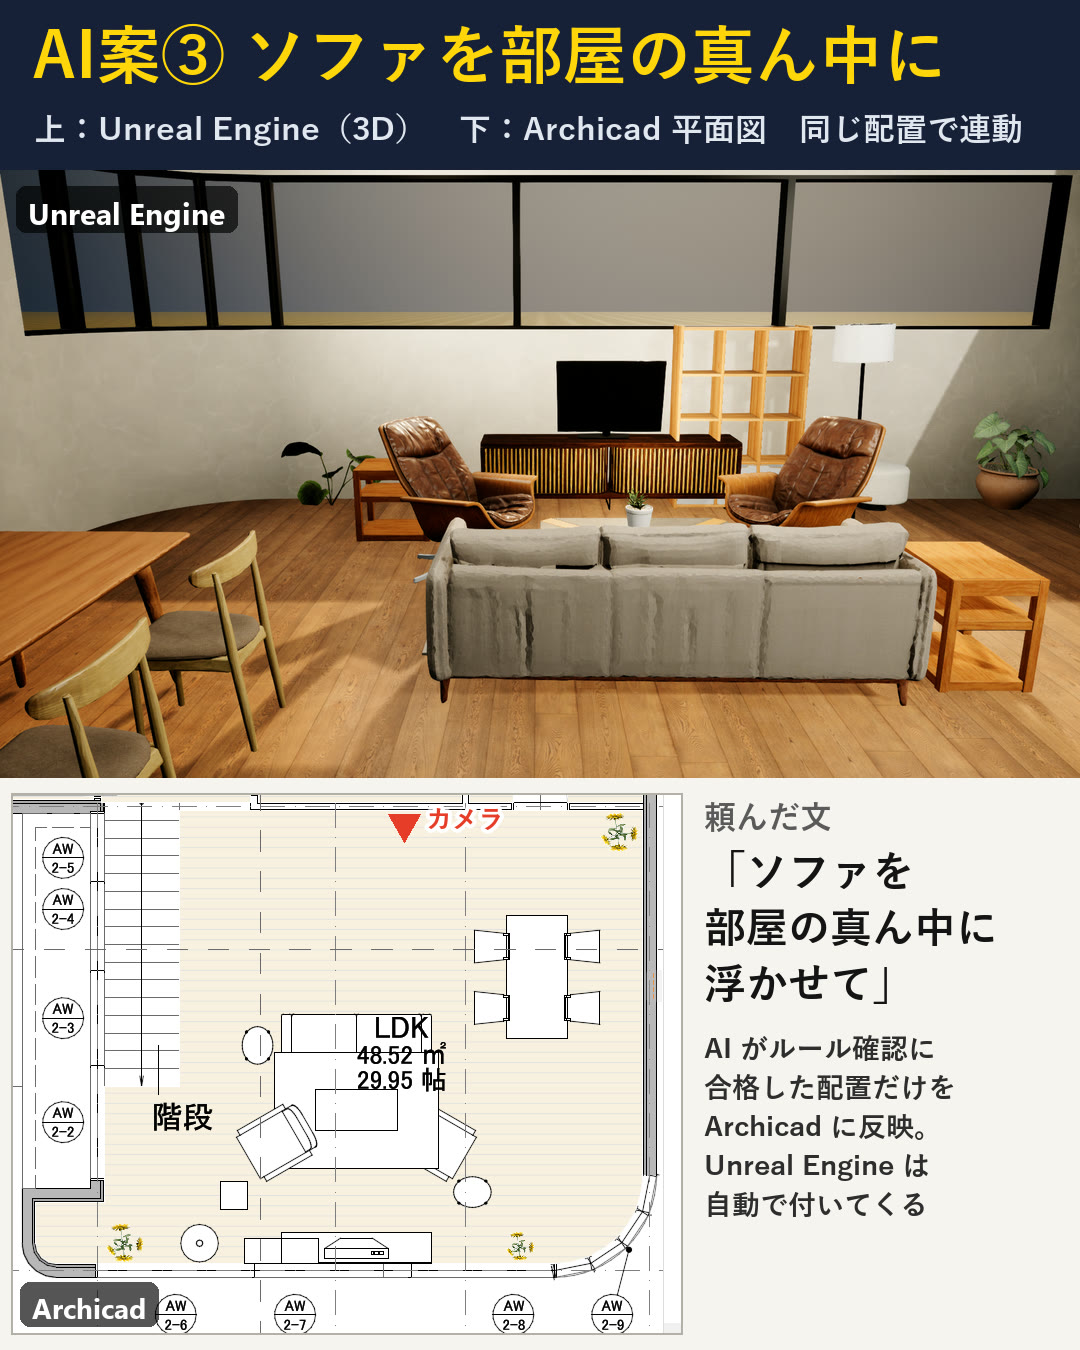
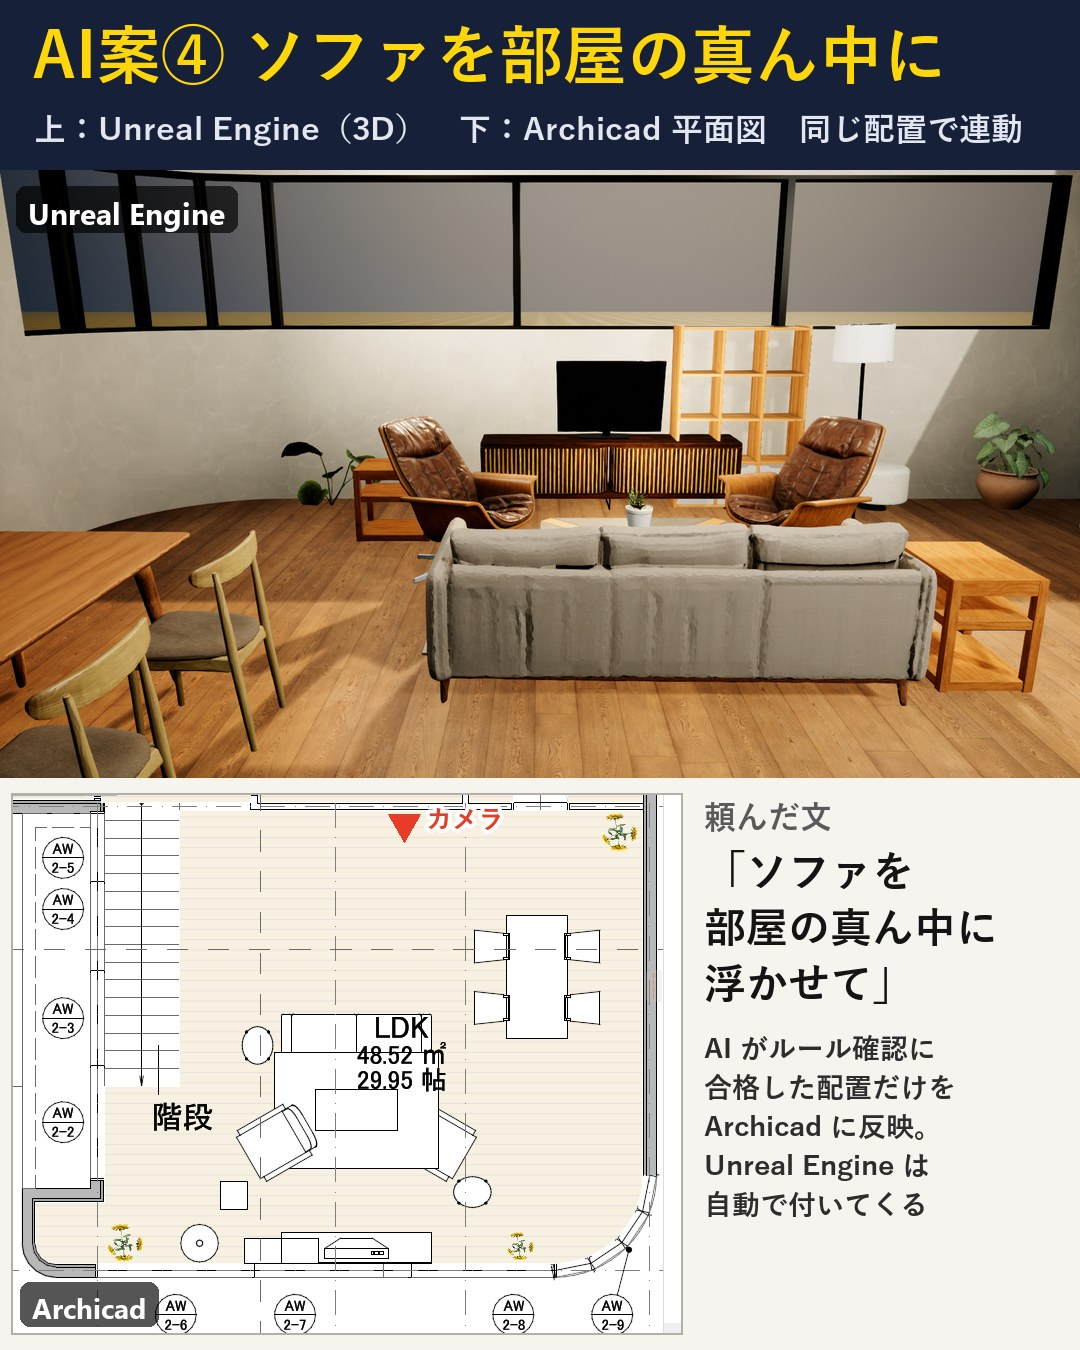
README: show all four AI layouts (incl. swap dining/living) as a 2x2 table; renumber floating sofa to 4

diff --git a/experiments/2026-11_unreal-archicad-link/README.en.md b/experiments/2026-11_unreal-archicad-link/README.en.md
@@ -7,16 +7,17 @@ If Unreal Engine is connected, the same furniture moves in the Unreal Engine 3D 
 
 No answers are prepared in advance. Every time, the AI designs from the current room (walls, windows, doors, stair, furniture).
 
-![AI layout 1: café seats by the window. Top: Unreal Engine; bottom: Archicad plan (same layout, linked)](images/img1_cafe_en.jpg)
-
 **You do not need to write any code.** After a one-time setup, you just paste the "one line" from the table below into the AI.
 
 ## What it does (the four requests in the experiment)
 
-| 2. For a party, clear a big space in the middle | 4. Float the sofa in the middle of the room |
+| 1. Line the sofas up by the window, like a café | 2. For a party, clear a big space in the middle |
 | --- | --- |
-| ![AI layout 2: open centre for a party](images/img2_party_en.jpg) | ![AI layout 4: floating sofa](images/img3_floating_en.jpg) |
+| ![AI layout 1: café seats by the window](images/img1_cafe_en.jpg) | ![AI layout 2: open centre for a party](images/img2_party_en.jpg) |
+| **3. Swap the dining and living areas** | **4. Float the sofa in the middle of the room** |
+| ![AI layout 3: swap dining and living](images/img4_swap_en.jpg) | ![AI layout 4: floating sofa](images/img3_floating_en.jpg) |
 
+In each image, top: Unreal Engine; bottom: Archicad plan (same layout, linked).
 
 Frames from the recording (captions in Japanese).
 
